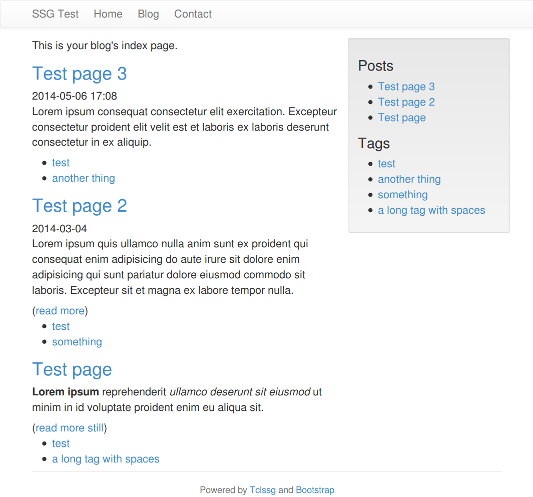
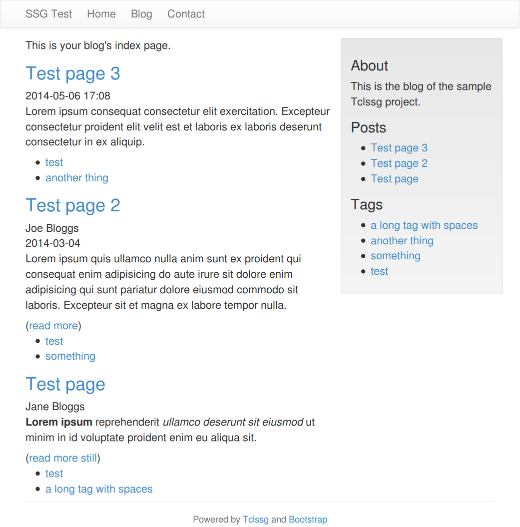
Only cache results of explicitly marked commands.
Automatic caching of the results of all commands called via
<%! ... %> in templates led to cache not being invalidated
in at least one case that is not trivial to refactor:
when the values of the commands called depend on page
variables in ways beyond "show this page element or show
nothing".

Rather than introduce more complex rules for cache invalidation
(e.g., which variables changing should invalidate what cached
values) going on we'll mark the calls to the template procs whose
results don't vary for the files in the same directory, which also
happen to be the ones that use the most resources (the sidebar
links and the tag cloud).

Also: added a new page variable "author", updated code comments,
the README and the screenshot.

Changed region(s): [[0.0308, 0.0, 0.6462, 0.9356], [0.6769, 0.0604, 0.9538, 0.5433], [0.3692, 0.9658, 0.6462, 0.996]]

diff --git a/skeleton/static/tclssg.css b/skeleton/static/tclssg.css
@@ -20,3 +20,7 @@ body {
 .next-page-link {
 	float: right;
 }
+
+.author {
+	margin-bottom: 0;
+}

diff --git a/README.md b/README.md
@@ -1,7 +1,7 @@
 Tclssg
 =======
 
-A static site generator with template support written in Tcl for danyilbohdan.com. Intended to make it easy to manage a small personal website with an optional blog. Tclssg uses Markdown for content formatting, [Bootstrap](http://getbootstrap.com/) for layout (with Bootstrap theme support) and Tcl code embedded in HTML for templating.
+A static site generator with template support written in Tcl for danyilbohdan.com. It is intended to make it easy to manage a small personal website with an optional blog. Tclssg uses Markdown for content formatting, [Bootstrap](http://getbootstrap.com/) for layout (with Bootstrap theme support) and Tcl code embedded in HTML for templating.
 
 **Warning! Tclssg is still in early development and may change rapidly in incompatible ways.**
 
@@ -15,7 +15,8 @@ Features
 * Deploy over FTP with a single command;
 * Use [custom commands](#using-deploycustomcommand) to deploy over SCP and other protocols;
 * Supports external comment engines (currently: Disqus);
-* [Reasonably fast](https://github.com/dbohdan/tclssg/wiki/Performance).
+* [Reasonably fast](https://github.com/dbohdan/tclssg/wiki/Performance);
+* Few dependencies.
 
 1\. A blog post differs from a plain old page in that it has a sidebar with links to other blog posts sorted by recency and tags. The latest blog posts are featured on the blog index and tag pages are generated to collect blog posts with the same tag.
 
@@ -231,6 +232,8 @@ The following variables have an effect for any page they are set on:
 | blogPost | 0/1 | If this is set to 1 the page will be a blog post. It will show in the blog post list. |
 | date | `2014`, `2014/06/23`, `2014-06-23`, `2014-06-23 14:35`, `2014-06-23 14:35:01` | Blog posts are sorted on the `date` field. The date must be in an [ISO 8601](https://en.wikipedia.org/wiki/ISO_8601)-like format of year-month-day-hour-minute-second. Dashes, spaces, colons, slashes, dots and `T` are all treated the same for sorting, so `2014-06-23T14:35:01` is equivalent to `2014 06 23 14 35 01`. |
 | hideDate | 0/1 | Do not put show the page date. |
+| author | `McPerson` | The name of the author or the person responsible for the page. Will be displayed under the title. |
+| hideAuthor | 0/1 | Do not put show the page author. |
 | headExtra | `{<link rel="stylesheet" href="./page-specific.css">}` | Line to append to `<head>`. |
 | hideFooter | 0/1 | Disable the "Powered by" footer. The copyright notice, if enabled, is still displayed. |
 | showUserComments | 0/1 | Enable comments using the comment engine specified in `commentsEngine`. |

diff --git a/skeleton/pages/blog/test-2.md b/skeleton/pages/blog/test-2.md
@@ -1,10 +1,11 @@
 {
     title {Test page 2}
+    author {Joe Bloggs}
     blogPost 1
     tags {test something}
     date 2014-03-04
 }
-Lorem ipsum quis ullamco nulla anim sunt ex proident qui consequat enim adipisicing do aute irure sit dolore enim adipisicing qui sunt pariatur dolore eiusmod commodo sit laboris.<%! footnote {This is a sample footnote.} %> Excepteur sit et magna ex labore tempor nulla.
+Lorem ipsum quis ullamco nulla anim sunt ex proident qui consequat enim adipisicing do aute irure sit dolore enim adipisicing qui sunt pariatur dolore eiusmod commodo sit laboris. Excepteur sit et magna ex labore tempor nulla.
 
 <!--more-->
 

diff --git a/skeleton/pages/blog/test-3.md b/skeleton/pages/blog/test-3.md
@@ -1,6 +1,8 @@
 {
     title {Test page 3}
     blogPost 1
+    author {It's a secret.}
+    hideAuthor 1
     tags {test {another thing}}
     date {2014-05-06 17:08}
 	sidebarNote {

diff --git a/skeleton/pages/blog/test.md b/skeleton/pages/blog/test.md
@@ -1,5 +1,6 @@
 {
     title {Test page}
+    author {Jane Bloggs}
     blogPost 1
     tags {test {a long tag with spaces}}
     date 2014-01-02
